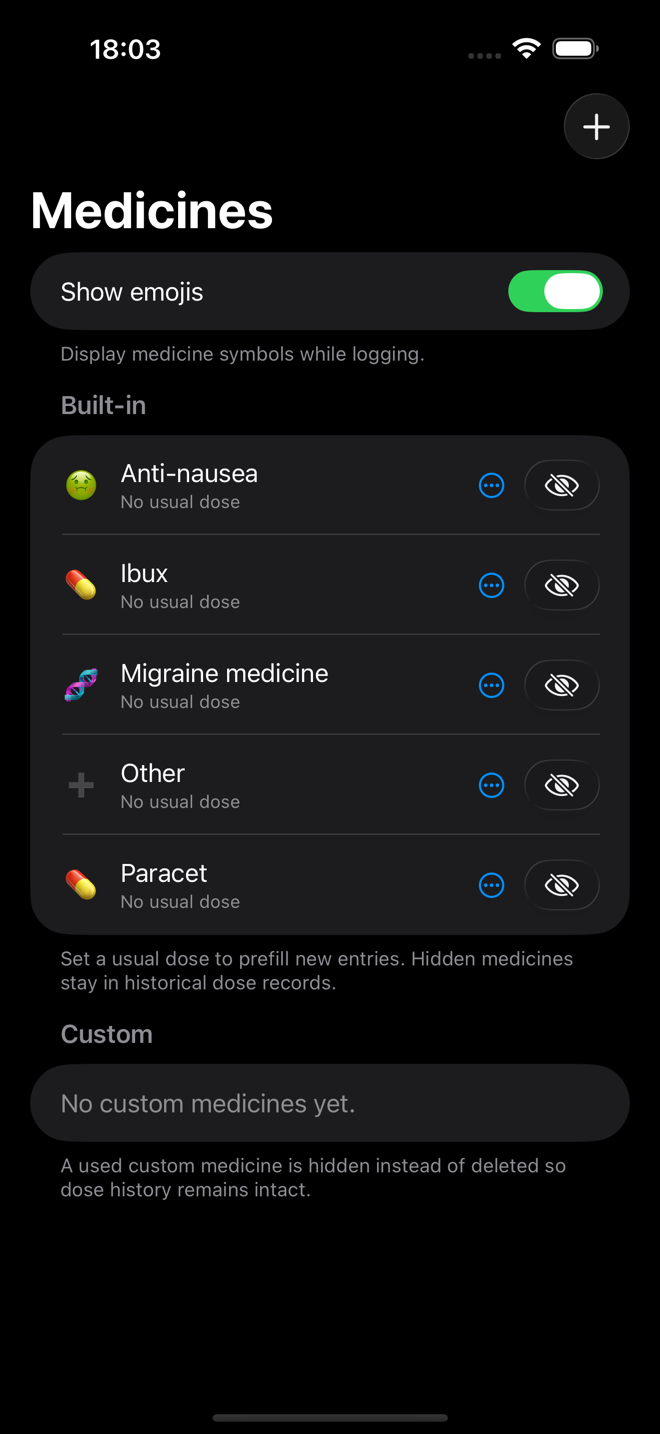
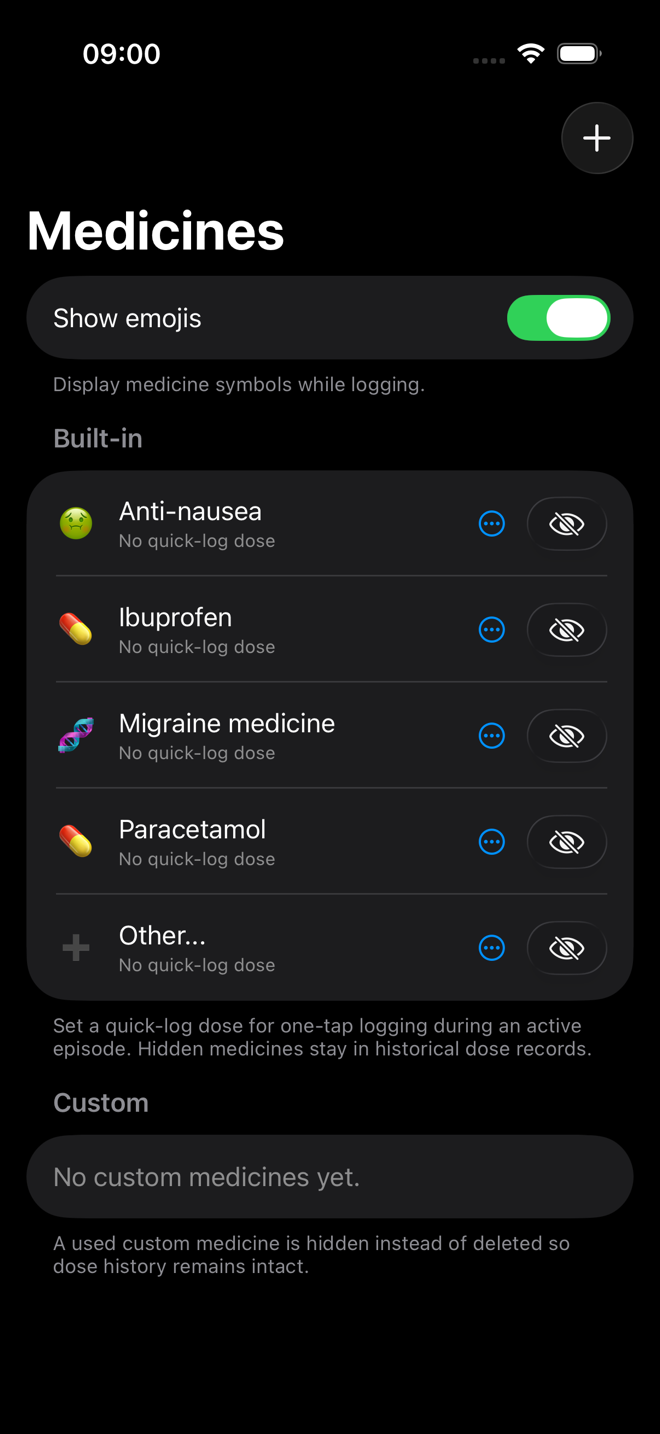
docs: add complete backup and transfer guidance

diff --git a/site/backup/index.html b/site/backup/index.html
@@ -1,0 +1,130 @@
+<!doctype html>
+<html lang="en">
+<head>
+  <meta charset="utf-8">
+  <meta name="viewport" content="width=device-width, initial-scale=1">
+  <meta name="description" content="How Headmon backup files work, what they contain, and how to move a diary between Android and iOS.">
+  <meta name="theme-color" content="#147d70">
+  <title>Backup and transfer | Headmon</title>
+  <link rel="icon" href="/assets/headmon-icon.png">
+  <link rel="stylesheet" href="/assets/styles.css">
+</head>
+<body>
+  <header class="site-header">
+    <a class="brand" href="/">
+      <img src="/assets/headmon-icon.png" alt="">
+      <span>Headmon</span>
+    </a>
+    <nav aria-label="Primary navigation">
+      <a href="/in-action/">In action</a>
+      <a href="/about/">About</a>
+      <a href="/privacy/">Privacy</a>
+      <a href="/backup/" aria-current="page">Backups</a>
+      <a href="/support/">Support</a>
+      <a href="https://github.com/HeadmonDiary/headmon">GitHub</a>
+    </nav>
+  </header>
+
+  <main>
+    <header class="page-title">
+      <p class="eyebrow">Your copy, your choice</p>
+      <h1>Protect or move your Headmon diary.</h1>
+      <p>A backup file gives you a portable copy without creating a Headmon account or sending the diary to a Headmon server.</p>
+    </header>
+
+    <article class="document">
+      <p class="notice">
+        <strong>Keep backup files private:</strong> they are readable files that can contain
+        sensitive health information. Store them somewhere you trust and never attach one to a
+        public GitHub issue.
+      </p>
+
+      <h2>Complete backup</h2>
+      <p>A complete Headmon backup is a ZIP file that can include:</p>
+      <ul>
+        <li>Diary dates and whether a day was pain-free or intentionally skipped</li>
+        <li>Headache, migraine and aura-only episodes with times, intensity, symptoms and notes</li>
+        <li>Day notes, stress levels, triggers, medicines and doses</li>
+        <li>Weather and location context saved on diary days</li>
+        <li>The separate continuous local weather history</li>
+        <li>Day and episode photos with their captions</li>
+        <li>Custom trigger and medicine definitions needed to preserve your diary</li>
+      </ul>
+
+      <h2>Calendar backup</h2>
+      <p>
+        The smaller calendar backup is a JSON file for diary migration and automatic rolling
+        backups. It contains the diary details listed above, except photo files, photo captions and
+        the separate continuous weather history.
+      </p>
+
+      <h2>What neither backup contains</h2>
+      <ul>
+        <li>Notification schedules, app permissions, appearance, icon or other device settings</li>
+        <li>A Headmon account, email address, advertising ID, device ID or serial number</li>
+      </ul>
+      <p>
+        Free-text notes and saved locations can still identify someone even though Headmon does not
+        add account or device identifiers.
+      </p>
+
+      <h2>Automatic backup on iPhone and iPad</h2>
+      <p>
+        Automatic backup is optional. When enabled, Headmon creates a calendar backup every seven
+        days and keeps the three newest files. You choose one of two destinations:
+      </p>
+      <ul>
+        <li><strong>Local only:</strong> files remain inside Headmon, are excluded from automatic device backup and are deleted if the app is deleted.</li>
+        <li><strong>A Files folder:</strong> Headmon writes to the folder you select. Its provider controls storage and any syncing. The Headmon developer cannot browse or receive those files.</li>
+      </ul>
+      <p>
+        iOS decides when background work runs. If a backup is due but iOS has not run it in the
+        background, Headmon catches up the next time the app opens.
+      </p>
+
+      <h2>Manual backup and restore</h2>
+      <ol>
+        <li>Open <strong>Settings → Data &amp; privacy</strong>.</li>
+        <li>Export a complete backup and save it in a private location.</li>
+        <li>On the destination device, choose <strong>Import Headmon backup</strong>.</li>
+        <li>If a date already exists, review the conflict and choose whether to keep the current day or replace it with the backup.</li>
+        <li>Review the import summary for diary days, photos and weather history.</li>
+      </ol>
+
+      <h2>Move between Android and iOS</h2>
+      <p>
+        Android and iOS use the same complete backup and calendar backup formats. Export a complete
+        backup from the old device, move
+        the file using a method you trust, then import it on the new device. Headmon also accepts
+        older Android backup files that have been carried forward from earlier app versions.
+      </p>
+
+      <h2>Why there are ZIP and JSON files</h2>
+      <p>
+        A complete backup ends in <strong>.zip</strong> because it bundles photos with structured
+        diary and weather data. A calendar backup ends in <strong>.json</strong> because it is a
+        smaller readable diary file. You do not need to open or understand either format to use
+        backup and restore.
+      </p>
+
+      <h2>Before deleting or reinstalling Headmon</h2>
+      <p>
+        Confirm that a recent backup exists outside the app and that you can find it. Local-only
+        automatic backups disappear with Headmon. The developer has no server copy and cannot
+        recover a deleted diary.
+      </p>
+
+      <h2>Related information</h2>
+      <ul>
+        <li><a href="/privacy/">Privacy policy</a></li>
+        <li><a href="/support/">Support and safe problem reporting</a></li>
+      </ul>
+    </article>
+  </main>
+
+  <footer class="site-footer">
+    <span>© 2026 Headmon</span>
+    <a href="/privacy/">Privacy</a>
+  </footer>
+</body>
+</html>

diff --git a/site/privacy/index.html b/site/privacy/index.html
@@ -3,7 +3,7 @@
 <head>
   <meta charset="utf-8">
   <meta name="viewport" content="width=device-width, initial-scale=1">
-  <meta name="description" content="Headmon privacy policy: local-only diary storage, optional weather requests, and user-controlled exports.">
+  <meta name="description" content="Headmon privacy policy: on-device diary storage, optional weather requests, and user-controlled exports and backups.">
   <meta name="theme-color" content="#147d70">
   <title>Privacy policy | Headmon</title>
   <link rel="icon" href="/assets/headmon-icon.png">
@@ -19,6 +19,7 @@
       <a href="/in-action/">In action</a>
       <a href="/about/">About</a>
       <a href="/privacy/" aria-current="page">Privacy</a>
+      <a href="/backup/">Backups</a>
       <a href="/support/">Support</a>
       <a href="https://github.com/HeadmonDiary/headmon">GitHub</a>
     </nav>
@@ -28,7 +29,7 @@
     <header class="page-title">
       <p class="eyebrow">Plain-language policy</p>
       <h1>Privacy at Headmon</h1>
-      <p>Effective 5 August 2026. Headmon is designed around a simple boundary: your headache diary belongs on your device.</p>
+      <p>Effective 13 August 2026. Headmon is designed around a simple boundary: your headache diary belongs under your control.</p>
     </header>
 
     <article class="document">
@@ -58,15 +59,40 @@
 
       <h2>Exports, imports and backups</h2>
       <p>
-        JSON, CSV and PDF files are created only when you request them. Automatic JSON backup is
-        optional and writes to a folder you select through the system Files interface. The folder
-        may be on the device or managed by a file provider such as iCloud Drive, depending on your
-        choice and system settings. Headmon does not operate or receive data from that storage.
+        Complete ZIP backups, manual calendar JSON backups, CSV and PDF files are created only when you
+        request them. Recurring calendar backup is optional and starts only after you enable it. On iOS, you choose whether Headmon keeps the three newest backup files in
+        its local-only storage or writes them to a folder you explicitly select through the system
+        Files interface. The selected folder may be on the device or managed by a provider such as
+        iCloud Drive, depending on your choice and system settings. Headmon stores the system-granted
+        folder permission on your device so it can create later backups, but the developer cannot
+        browse or receive files from that folder.
       </p>
       <p>
-        Exported files can contain sensitive health information. Photos are not included in the
-        portable JSON archive, but remain private files inside Headmon unless you explicitly share
-        or copy them. Deleting Headmon does not delete export or backup copies stored elsewhere.
+        The <a href="/backup/">Headmon backup guide</a> explains what complete and calendar backups contain,
+        what it omits, how storage locations differ and how to move a diary between devices.
+      </p>
+      <p>
+        Local-only automatic backups remain inside Headmon, use operating-system controls that
+        exclude them from device backup, and are deleted when the app is deleted. A selected Files
+        provider controls its own storage, security, syncing and retention. Copies written outside
+        Headmon can remain after the app is deleted.
+      </p>
+      <p>
+        Exported files can contain sensitive health information in readable form, including dates,
+        episode times, symptoms, pain levels, medicines, triggers, notes, weather, coordinates and
+        place names. Headmon exports do not add a user account, name, email address, advertising ID,
+        device ID, serial number or hardware identifier. Free-text notes and location history can
+        nevertheless identify a person. Complete ZIP backups include photos and captions. Calendar
+        JSON backups do not include photo files or continuous weather history.
+      </p>
+
+      <h2>Your choices and deletion</h2>
+      <p>
+        You can turn off automatic backup, change its destination, disable weather and location
+        features, revoke location access in system Settings, delete individual diary days, or reset
+        all Headmon data. Files previously exported or written to a selected Files folder must be
+        deleted using that provider. Headmon has no server copy and cannot recover or delete those
+        external copies for you.
       </p>
 
       <h2>Optional location and weather</h2>
@@ -121,7 +147,7 @@
       </p>
       <p>
         Email sent to <a href="mailto:headmon@proton.me">headmon@proton.me</a> is handled through
-        Proton. GitHub Issues are public. Never post a Headmon JSON, CSV or PDF export, private
+        Proton. GitHub Issues are public. Never post a Headmon backup, CSV or PDF export, private
         photo, medical record, address or other sensitive information in a public issue.
       </p>
 

diff --git a/site/support/index.html b/site/support/index.html
@@ -19,6 +19,7 @@
       <a href="/in-action/">In action</a>
       <a href="/about/">About</a>
       <a href="/privacy/">Privacy</a>
+      <a href="/backup/">Backups</a>
       <a href="/support/" aria-current="page">Support</a>
       <a href="https://github.com/HeadmonDiary/headmon">GitHub</a>
     </nav>
@@ -40,7 +41,7 @@
       </p>
 
       <p class="notice">
-        <strong>Protect your diary:</strong> never attach a Headmon JSON, CSV or PDF export,
+        <strong>Protect your diary:</strong> never attach a Headmon backup, CSV or PDF export,
         medical document, private photo, exact location or other health information to a public
         GitHub issue. Describe the behavior using invented example data instead.
       </p>
@@ -49,7 +50,7 @@
       <ol>
         <li>Check the Headmon version and build under Settings → About Headmon.</li>
         <li>Restart Headmon and, if appropriate, restart the device.</li>
-        <li>Create a private JSON backup before reinstalling, resetting data or testing an import.</li>
+        <li>Create a complete backup in a private Files location before reinstalling, resetting data or testing an import.</li>
         <li>Note the device model, operating-system version and the exact steps that caused the problem.</li>
         <li>Remove or replace all real diary details before sharing a screenshot.</li>
       </ol>
@@ -57,9 +58,15 @@
       <h2>Data recovery and migration</h2>
       <p>
         Headmon has no server copy of your diary and the developer cannot recover deleted local
-        data. Use the app’s JSON export or optional automatic backup to keep a portable copy. JSON
-        is also the supported way to move diary data between Android and iOS. Keep backups private:
-        they can contain sensitive health information.
+        data. Optional automatic backup can keep three rolling copies inside Headmon or in a Files
+        folder you explicitly select. Local-only backups are deleted with the app, so create a
+        complete backup in Files before uninstalling, resetting the diary or changing phones.
+        The same complete ZIP format moves diary data, photos and weather history between Android and iOS.
+      </p>
+      <p>
+        Keep every export private. Backup, CSV and PDF files can contain sensitive health information,
+        exact dates and times, free-text notes, coordinates and place names. Headmon cannot recover
+        or delete a copy stored with iCloud Drive or another Files provider.
       </p>
 
       <h2>Medical notice</h2>
@@ -71,6 +78,7 @@
 
       <h2>Useful links</h2>
       <ul>
+        <li><a href="/backup/">Backup, restore and phone-transfer guide</a></li>
         <li><a href="/privacy/">Headmon privacy policy</a></li>
         <li><a href="https://github.com/HeadmonDiary/headmon">Headmon on GitHub</a></li>
         <li><a href="https://github.com/HeadmonDiary/headmon/issues">Open issues</a></li>

diff --git a/site/index.html b/site/index.html
@@ -3,7 +3,7 @@
 <head>
   <meta charset="utf-8">
   <meta name="viewport" content="width=device-width, initial-scale=1">
-  <meta name="description" content="Headmon is a private, local-only headache and migraine diary for Android and iOS.">
+  <meta name="description" content="Headmon is a private, account-free headache and migraine diary for Android and iOS.">
   <meta name="theme-color" content="#147d70">
   <title>Headmon | A private headache diary</title>
   <link rel="icon" href="/assets/headmon-icon.png">
@@ -21,6 +21,7 @@
       <a href="/in-action/">In action</a>
       <a href="/about/">About</a>
       <a href="/privacy/">Privacy</a>
+      <a href="/backup/">Backups</a>
       <a href="/support/">Support</a>
       <a href="https://github.com/HeadmonDiary/headmon">GitHub</a>
     </nav>
@@ -34,7 +35,8 @@
         <p>
           Headmon is a headache and migraine diary for Android and iOS. Record episodes,
           medicines, triggers, weather and patterns without creating an account or sending
-          your diary to a cloud service.
+          your diary to a Headmon server. Optional portable backups go only to a location
+          you choose.
         </p>
         <div class="actions">
           <a class="button primary" href="/in-action/">See Headmon in action</a>
@@ -123,13 +125,14 @@
     <section class="section grid" aria-label="Headmon principles">
       <article class="card">
         <span class="card-mark" aria-hidden="true">⌂</span>
-        <h2>Local-only by design</h2>
-        <p>Your diary, photos and history are stored on your device. Headmon has no account system or diary server.</p>
+        <h2>On-device by design</h2>
+        <p>Your working diary, photos and history stay on your device. Headmon has no account system or diary server.</p>
       </article>
       <article class="card">
         <span class="card-mark" aria-hidden="true">⇄</span>
         <h2>Portable when you choose</h2>
-        <p>Readable JSON, CSV and PDF exports let you keep a backup or move diary data between Android and iOS.</p>
+        <p>Portable backup files let you protect the diary or move it between Android and iOS.</p>
+        <a class="text-link" href="/backup/">Read the backup guide <span aria-hidden="true">→</span></a>
       </article>
       <article class="card">
         <span class="card-mark" aria-hidden="true">◐</span>

diff --git a/site/in-action/index.html b/site/in-action/index.html
@@ -21,6 +21,7 @@
       <a href="/in-action/" aria-current="page">In action</a>
       <a href="/about/">About</a>
       <a href="/privacy/">Privacy</a>
+      <a href="/backup/">Backups</a>
       <a href="/support/">Support</a>
       <a href="https://github.com/HeadmonDiary/headmon">GitHub</a>
     </nav>
@@ -133,7 +134,7 @@
         <h2>Local-only does not mean locked in.</h2>
       </div>
       <p>
-        Export a portable JSON backup to move between Android and iOS, create CSV or PDF reports,
+        Export a portable backup to move between Android and iOS, create CSV or PDF reports,
         and choose where your copies live. Headmon does not operate a synchronization server.
       </p>
       <a class="button primary" href="/privacy/">Read the privacy boundary</a>

diff --git a/site/about/index.html b/site/about/index.html
@@ -20,6 +20,7 @@
       <a href="/in-action/">In action</a>
       <a href="/about/" aria-current="page">About</a>
       <a href="/privacy/">Privacy</a>
+      <a href="/backup/">Backups</a>
       <a href="/support/">Support</a>
       <a href="https://github.com/HeadmonDiary/headmon">GitHub</a>
     </nav>
